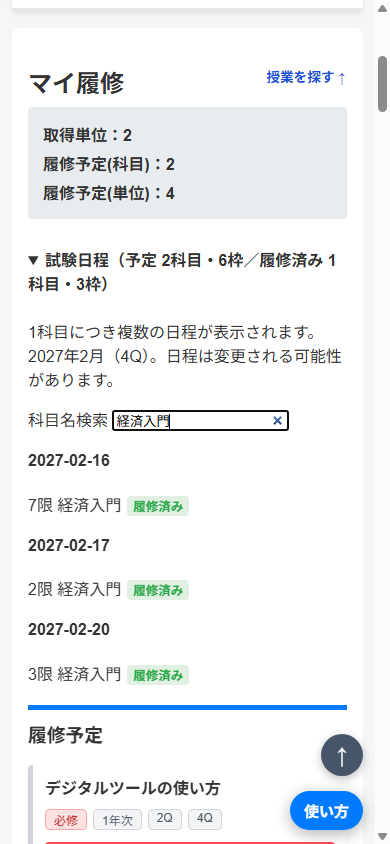
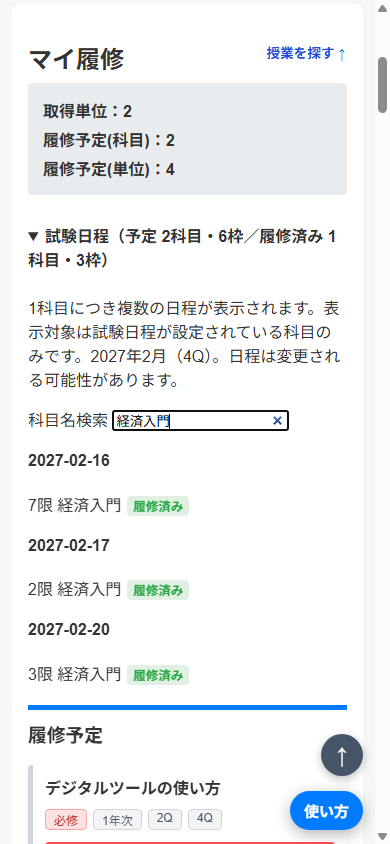
fix: 7回目レビュー残課題（V1矢印の見え方、A計画チェック振り分け、B読み込み中表示、C使い方ボタン被り、D1総合判定ラベル、D2詳細の分野/区分、D3試験日程対象一文、E案内文）

Changed region(s): [[0.0308, 0.0, 0.9231, 0.4621]]

diff --git a/src/features/simulator/controller.js b/src/features/simulator/controller.js
@@ -119,10 +119,20 @@
         .map((issue) => ({ course, placement, ...issue }));
     });
 
+  // 科目データの読み込みが終わるまでは、未読込を「データがない／読めない」と
+  // 見せない。読み込み中の表示はホーム側（app-loading）と同じ扱い。
+  const isCourseDataLoading = () => document.body.classList.contains('app-loading');
+
   const renderSimulatorPlanCheck = () => {
     const summary = document.getElementById('simulator-plan-check-summary');
     const details = document.getElementById('simulator-plan-check-details');
     if (!summary || !details) return;
+    if (isCourseDataLoading()) {
+      summary.textContent = '計画チェック（読み込み中…）';
+      details.innerHTML =
+        '<p class="simulator-plan-check-empty">科目データを読み込み中です。読み込みが終わると計画の確認結果が表示されます。</p>';
+      return;
+    }
 
     const prerequisiteWarnings = getSimulatorPlanWarnings();
     const placementIssues = getSimulatorPlacementIssues();
@@ -212,15 +222,28 @@
             <span>${context.escapeHTML(warning.message)}${warning.course ? `（${context.escapeHTML(warning.strengthText)}）` : ''}</span>
           </li>
         `;
-    // 判定対象（要修正・前提）と、単位・年次・未配置などの参考情報を区別して並べる。
-    const issueItems = [
-      ...placementIssues.map((issue) => ({ ...issue, strengthText: '要修正' })),
-      ...prerequisiteWarnings.map((warning) => ({ ...warning, strengthText: warning.strengthLabel })),
+    // 説明文（要修正＝開講Q不適合のみ。前提・未配置は参考情報）に合わせて振り分ける。
+    // 「判定対象」には要修正だけを置き、前提は参考情報側に並べる。見出しの
+    // 件数の数え方（要修正 N・前提 N強/N推奨）は変えない。
+    const issueItems = placementIssues.map((issue) => ({ ...issue, strengthText: '要修正' }));
+    const prerequisiteInfo = prerequisiteWarnings.map((warning) => ({
+      ...warning,
+      strengthText: warning.strengthLabel,
+    }));
+    const referenceItems = [
+      ...prerequisiteInfo,
+      ...creditInfo,
+      ...emptyYearInfo,
+      ...unplacedCourseInfo,
+      ...orphanPlacementInfo,
     ];
-    const referenceItems = [...creditInfo, ...emptyYearInfo, ...unplacedCourseInfo, ...orphanPlacementInfo];
     details.innerHTML =
       issueItems.length || referenceItems.length
-        ? `${issueItems.length ? `<p class="simulator-plan-check-group-label">判定対象</p><ul>${issueItems.map(renderItem).join('')}</ul>` : ''}${
+        ? `<p class="simulator-plan-check-group-label">判定対象</p>${
+            issueItems.length
+              ? `<ul>${issueItems.map(renderItem).join('')}</ul>`
+              : '<p class="simulator-plan-check-empty">要修正はありません</p>'
+          }${
             referenceItems.length
               ? `<p class="simulator-plan-check-reference-label">参考情報</p><ul>${referenceItems.map(renderItem).join('')}</ul>`
               : ''
@@ -454,6 +477,16 @@
     const yearGrid = document.getElementById('simulator-year-grid');
     const unknownHost = document.getElementById('simulator-unknown-courses');
     if (!summary || !totalSummary || !yearGrid) return;
+    if (isCourseDataLoading()) {
+      // 未読込の配置データを「確認が必要な科目」と誤表示しない。
+      totalSummary.innerHTML = '<span>総予定単位</span><strong>読み込み中…</strong>';
+      summary.innerHTML = '<div><strong>4年間の計画</strong><span>科目データを読み込み中です</span></div>';
+      unknownHost.hidden = true;
+      unknownHost.replaceChildren();
+      yearGrid.replaceChildren();
+      renderSimulatorCourseResults();
+      return;
+    }
 
     const years = [1, 2, 3, 4];
     const getCourse = (id) => context.state.coursesMap.get(id);

diff --git a/style.css b/style.css
@@ -34,13 +34,17 @@ body {
   /* 固定ヘッダー（sticky-controls）の実高さはJSが測ってCSS変数に入れる。
      その高さより下に貼り付けることで、マイ履修の上部がヘッダーに隠れない。 */
   top: calc(var(--sticky-controls-height, 330px) + 20px);
-  max-height: calc(
-    100vh - var(--sticky-controls-height, 330px) - 40px
-  ); /* 画面からはみ出さないよう高さを制限 */
+  /* この要素は content-box なので max-height は padding を含まない。
+     下の padding-bottom 96px のうち元の 20px 分を除く 76px 分と、ページ最上部で
+     sticky 前の自然位置が貼り付き位置より下になる分（約24px）をさらに引き、
+     内容の最終行が右下の「使い方」ボタン（下端から約25px＋高さ約44px）
+     の下に回り込んで隠れないようにする。 */
+  max-height: calc(100vh - var(--sticky-controls-height, 330px) - 144px);
   overflow-y: auto; /* 科目が増えた場合にリスト内スクロールを可能にする */
-  /* 枠のような見た目にする */
+  /* 下端は右下の「使い方」ボタンの下に内容が回り込めるよう余白を確保。 */
   background-color: #fff;
   padding: 20px;
+  padding-bottom: 96px;
   border-radius: 8px;
   box-shadow: 0 4px 6px rgba(0, 0, 0, 0.05);
 }
@@ -756,6 +760,11 @@ body.simulator-view-active > #analysis-modal {
 #simulator-plan-check-details ul + .simulator-plan-check-reference-label,
 #simulator-plan-check-details ul + .simulator-plan-check-group-label {
   margin-top: 10px;
+}
+
+.simulator-plan-check-empty {
+  margin: 0;
+  color: #64748b;
 }
 
 #simulator-plan-check-details p {
@@ -2448,7 +2457,10 @@ body.app-loading .top-credit-gauge .gauge-fill {
   .right-column {
     max-height: none;
     overflow-y: visible;
+    /* 下端は右下の「使い方」ボタンの下に内容が回り込めるよう余白を確保
+       （body の下余白 80px と合わせて文末がボタンに隠れないようにする）。 */
     padding: 16px;
+    padding-bottom: 96px;
   }
 
   #predefined-classes-list,

diff --git a/curriculum-map.js b/curriculum-map.js
@@ -385,11 +385,25 @@
         const a = positions.get(relation.prerequisiteId),
           b = positions.get(relation.successorId);
         if (!a || !b) continue;
+        // 後継カードの中心まで線を引くと、終端（矢印）が不透明なカードの裏に
+        // 隠れる。後継カードの外周の少し手前で止めて矢印を見えるようにする。
+        const acx = a.x + a.width / 2;
+        const acy = a.y + a.height / 2;
+        const bcx = b.x + b.width / 2;
+        const bcy = b.y + b.height / 2;
+        const dx = bcx - acx;
+        const dy = bcy - acy;
+        const length = Math.hypot(dx, dy) || 1;
+        const ux = dx / length;
+        const uy = dy / length;
+        const pad = 10;
+        const tx = ux ? (b.width / 2 + pad) / Math.abs(ux) : Infinity;
+        const ty = uy ? (b.height / 2 + pad) / Math.abs(uy) : Infinity;
+        const trim = Math.min(Math.min(tx, ty), length);
+        const endX = bcx - ux * trim;
+        const endY = bcy - uy * trim;
         const line = doc.createElementNS('http://www.w3.org/2000/svg', 'path');
-        line.setAttribute(
-          'd',
-          `M${a.x + a.width / 2},${a.y + a.height / 2} L${b.x + b.width / 2},${b.y + b.height / 2}`,
-        );
+        line.setAttribute('d', `M${acx},${acy} L${endX},${endY}`);
         line.setAttribute('stroke', relation.strength === 'strongly_recommended' ? '#b17b21' : '#427e85');
         line.setAttribute('stroke-width', '3');
         line.setAttribute('stroke-dasharray', '8 6');

diff --git a/src/styles/base.css b/src/styles/base.css
@@ -32,13 +32,17 @@ body {
   /* 固定ヘッダー（sticky-controls）の実高さはJSが測ってCSS変数に入れる。
      その高さより下に貼り付けることで、マイ履修の上部がヘッダーに隠れない。 */
   top: calc(var(--sticky-controls-height, 330px) + 20px);
-  max-height: calc(
-    100vh - var(--sticky-controls-height, 330px) - 40px
-  ); /* 画面からはみ出さないよう高さを制限 */
+  /* この要素は content-box なので max-height は padding を含まない。
+     下の padding-bottom 96px のうち元の 20px 分を除く 76px 分と、ページ最上部で
+     sticky 前の自然位置が貼り付き位置より下になる分（約24px）をさらに引き、
+     内容の最終行が右下の「使い方」ボタン（下端から約25px＋高さ約44px）
+     の下に回り込んで隠れないようにする。 */
+  max-height: calc(100vh - var(--sticky-controls-height, 330px) - 144px);
   overflow-y: auto; /* 科目が増えた場合にリスト内スクロールを可能にする */
-  /* 枠のような見た目にする */
+  /* 下端は右下の「使い方」ボタンの下に内容が回り込めるよう余白を確保。 */
   background-color: #fff;
   padding: 20px;
+  padding-bottom: 96px;
   border-radius: 8px;
   box-shadow: 0 4px 6px rgba(0, 0, 0, 0.05);
 }

diff --git a/src/features/simulator/dialogs.js b/src/features/simulator/dialogs.js
@@ -188,12 +188,16 @@
         </section>`
       : '';
     title.textContent = course.subject;
+    // 分野＝タグ（必修・卒業プロジェクトは分野ではないためマップ詳細と同じく「―」）。
+    // 区分＝category をマップ詳細と同様に別行で出す。
+    const isFieldTag = (tag) => Boolean(tag) && tag !== '必修' && tag !== '卒業プロジェクト';
     content.innerHTML = `
       <dl class="simulator-course-detail-list">
         <div><dt>開講Q</dt><dd>${context.escapeHTML(course.quarter || 'Q未定')}</dd></div>
         ${placement ? `<div><dt>選択Q</dt><dd>${context.escapeHTML(context.formatSimulatorPlacement(course, placement))}</dd></div>` : ''}
         <div><dt>単位</dt><dd>${context.escapeHTML(String(course.credits || 0))}単位</dd></div>
-        ${course.tag ? `<div><dt>分野</dt><dd>${context.escapeHTML(course.tag)}</dd></div>` : ''}
+        <div><dt>分野</dt><dd>${context.escapeHTML(isFieldTag(course.tag) ? course.tag : '―')}</dd></div>
+        <div><dt>区分</dt><dd>${context.escapeHTML(course.category || '―')}</dd></div>
         ${course.method ? `<div><dt>授業方法</dt><dd>${context.escapeHTML(course.method)}</dd></div>` : ''}
         ${
           course.teacher

diff --git a/src/features/graduation/controller.js b/src/features/graduation/controller.js
@@ -251,7 +251,7 @@
         <p class="graduation-analysis-legend"><strong>${context.escapeHTML(completedLabel)}</strong>は${context.escapeHTML(completedDescription)}、<strong>${context.escapeHTML(plannedLabel)}</strong>は${context.escapeHTML(plannedDescription)}です。</p>
         <p class="graduation-analysis-legend" id="graduation-analysis-note">修得済みは「今までに取得済みの科目だけでの判定」。予定込みは「このまま履修予定を取れば卒業できそうか」の見込み判定です。算入＝卒業要件に数えられる単位のことで、社会接続は上限までしか数えられません。</p>
         <div class="graduation-overall-status" aria-live="polite">
-          ${context.escapeHTML(completedLabel)}：<strong>${completedAnalysis.satisfied ? '達成' : '未達'}</strong> ／
+          総単位の判定：${context.escapeHTML(completedLabel)}：<strong>${completedAnalysis.satisfied ? '達成' : '未達'}</strong> ／
           ${context.escapeHTML(plannedLabel)}：<strong>${plannedAnalysis.satisfied ? '達成見込み' : '不足'}</strong>
         </div>
         ${categoryBreakdown('必修')}

diff --git a/src/features/simulator/graduation-panel.js b/src/features/simulator/graduation-panel.js
@@ -83,6 +83,15 @@
     const details = document.getElementById('simulator-graduation-details-content');
     const unknownNotice = document.getElementById('simulator-graduation-unknown');
     if (!summary || !details || !context.simulatorAvailable) return;
+    // 読み込み中は「判定不能」ではなく「読み込み中」を見せる。
+    // 判定不能（卒業要件データが本当に読めない場合）は読み込み完了後も出す。
+    if (context.state.graduationDefinitionLoading || document.body.classList.contains('app-loading')) {
+      summary.innerHTML =
+        '<div class="simulator-graduation-unavailable"><strong>卒業見込み：読み込み中…</strong><span>卒業要件データを読み込んでいます。</span></div>';
+      details.innerHTML = '';
+      if (unknownNotice) unknownNotice.hidden = true;
+      return;
+    }
 
     const knownCourseIds = new Set(context.state.coursesMap.keys());
     const placements = context.state.simulatorPlan.placements;

diff --git a/app.js b/app.js
@@ -166,6 +166,9 @@ async function initializeHub() {
     // マイ履修は通常の履修予定（myClasses）を表示するだけで、4年計画とは分離する。
     simulatorPlacementFilter: 'all',
     graduationDefinition: null,
+    // 卒業要件データの読み込みが完了するまで「判定不能」ではなく「読み込み中」
+    // を見せるためのフラグ。読み込みが完了（または失敗して null 確定）したら false。
+    graduationDefinitionLoading: true,
     courseValidationError: null,
     curriculumLayoutDefinition: null,
     coursesReady: false,
@@ -406,6 +409,7 @@ async function initializeHub() {
       refreshOptionalData({ relations: true });
     });
     graduationPromise.then((graduationDefinition) => {
+      state.graduationDefinitionLoading = false;
       applyGraduationDefinition(graduationDefinition, data);
       refreshOptionalData({ graduation: true });
     });

diff --git a/feedback.html b/feedback.html
@@ -41,7 +41,7 @@
             </label>
           </p>
           <p id="feedback-course-hint" class="feedback-course-hint" hidden>
-            科目についての報告は、各科目の詳細にある「この科目の情報を報告」から開くと科目名が自動で入ります。一般のご意見・不具合報告はこのまま送信できます。
+            科目についての報告は、各科目の詳細にある「この科目の情報を報告」から開くと科目名が自動で入ります。直接開いた場合は下の科目ID・科目名は読み取り専用で空欄のままですが、一般のご意見・不具合報告はこのまま送信できます。
           </p>
           <p>
             <label>科目ID<input name="courseId" maxlength="100" readonly /> </label>

diff --git a/index.html b/index.html
@@ -400,7 +400,9 @@
 
           <details id="exam-schedule">
             <summary>試験日程</summary>
-            <p>1科目につき複数の日程が表示されます。2027年2月（4Q）。日程は変更される可能性があります。</p>
+            <p>
+              1科目につき複数の日程が表示されます。表示対象は試験日程が設定されている科目のみです。2027年2月（4Q）。日程は変更される可能性があります。
+            </p>
             <label>科目名検索 <input id="exam-search" type="search" /></label>
             <div id="exam-list" aria-live="polite"></div>
           </details>

diff --git a/src/styles/responsive.css b/src/styles/responsive.css
@@ -199,7 +199,10 @@
   .right-column {
     max-height: none;
     overflow-y: visible;
+    /* 下端は右下の「使い方」ボタンの下に内容が回り込めるよう余白を確保
+       （body の下余白 80px と合わせて文末がボタンに隠れないようにする）。 */
     padding: 16px;
+    padding-bottom: 96px;
   }
 
   #predefined-classes-list,

diff --git a/src/styles/simulator.css b/src/styles/simulator.css
@@ -398,6 +398,11 @@ body.simulator-view-active > #analysis-modal {
   margin-top: 10px;
 }
 
+.simulator-plan-check-empty {
+  margin: 0;
+  color: #64748b;
+}
+
 #simulator-plan-check-details p {
   margin: 0;
   color: #64748b;
